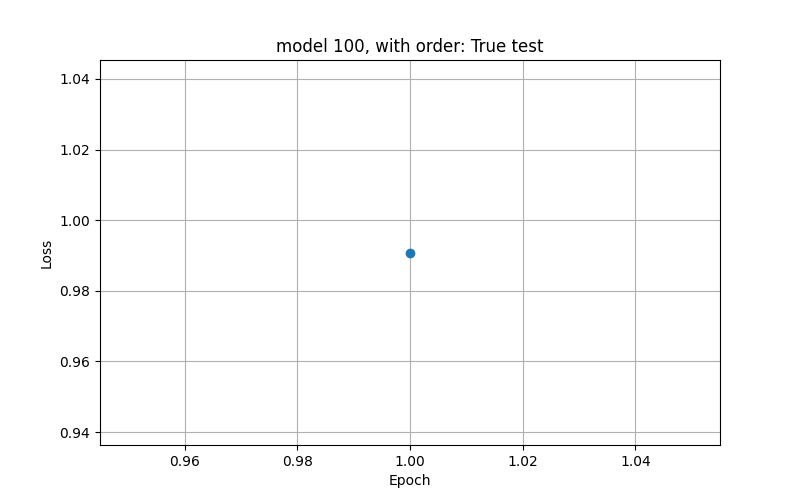
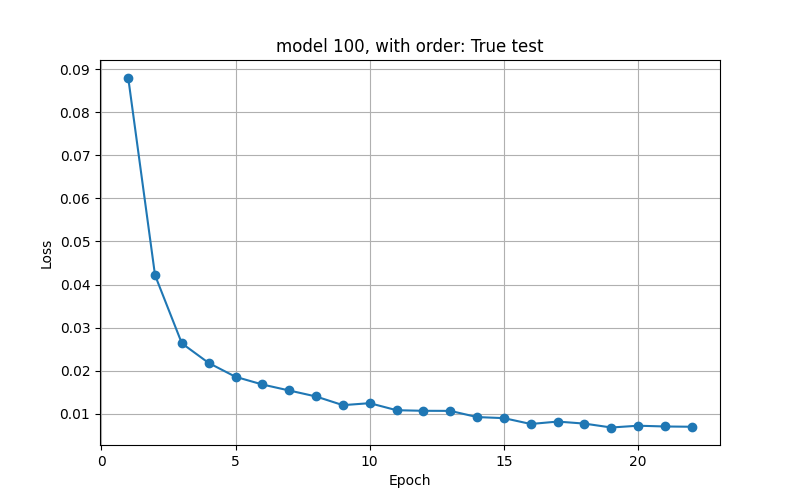
Refactor code structure for improved readability and maintainability

diff --git a/code/inference/guidence.py b/code/inference/guidence.py
@@ -20,10 +20,10 @@ from code.inference.denoise import get_inference_schedule
 
 
 
-def adj_inference_ddpm_cos(proc_times, job_ops_adj, ops_ma_adj, model_path, n_samples, h_when_masked, w_when_masked, n_ops, ops_seq_order, timesteps=1000, guidence_scale=0.5):
+def adj_inference_ddpm_cos(proc_times, job_ops_adj, ops_ma_adj, model_path, n_samples, h_when_masked, w_when_masked, valid_h, valid_w, n_ops, ops_seq_order, timesteps=1000, guidence_scale=0.5):
     
     device = "cuda"
-    print(f"Using model {model_path}, with timesteps {timesteps}, and cos: {cos}")
+    print(f"Using model {model_path}, with timesteps {timesteps}")
 
     model = deepinv.models.DiffUNet(
         in_channels=4, out_channels=1, pretrained=Path(model_path)
@@ -87,10 +87,12 @@ def adj_inference_ddpm_cos(proc_times, job_ops_adj, ops_ma_adj, model_path, n_sa
 
             x0 = scheduler.step(predicted_noise, t, x).pred_original_sample
 
-            guide_loss = guide.amt_errors(x0, n_ops, ops_ma_adj, ops_seq_order, 30) 
+            guide_loss = guide.amt_errors(x0, n_ops, ops_ma_adj, ops_seq_order, valid_h, valid_w, 30)
             guide_loss = guide_loss * guidence_scale
+
             if t % 10 == 0:
                 print(t, "loss:", guide_loss.item())
+
             cond_grad = -torch.autograd.grad(guide_loss, x)[0]
             x = x.detach() + cond_grad
 

diff --git a/code/inference/guide.py b/code/inference/guide.py
@@ -19,7 +19,12 @@ def guiding_function(x): #  is batch of instances
 
 
 
-def amt_errors(x, n_ops, ops_ma_adj, ops_seq_order, max_allowed_total_errors=30):
+def amt_errors(x, n_ops, ops_ma_adj, ops_seq_order, valid_h, valid_w, max_allowed_total_errors=30):
+    # remove padding
+    x = x[:, :, :valid_h, :valid_w]
+    print("hvata")
+    print(x.shape)
+    print("---")
     # make in schedule with order
     inference_assignments = utils.show_order_clear(x, n_ops, ops_ma_adj)
     # get amount of errors
@@ -30,7 +35,7 @@ def amt_errors(x, n_ops, ops_ma_adj, ops_seq_order, max_allowed_total_errors=30)
     if error <= total_errors:
         return float(1)
     # normaliserer totale feil mot max_allowed_total_errors
-    norm_error = (error- 0) / (max_allowed_total_errors - 0)
+    norm_error = (error) / (max_allowed_total_errors)
     # returnerer error
     return norm_error
 

diff --git a/code/inference/main.py b/code/inference/main.py
@@ -124,7 +124,7 @@ def get_inference_result(problem_type, instance_idx, model_type, order: bool):
         # === GUIDENCE
         n_ops = int(torch.count_nonzero(target_assignments))
         ops_seq_order = td["ops_sequence_order"]
-        inference_assignments, elapsed, assignments_over_time = inference.adj_inference_ddpm(proc_times, job_ops_adj, ops_ma_adj, adj_model_path, n_samples, mask_h, mask_w, n_ops, ops_seq_order, timesteps, True)
+        inference_assignments, elapsed, assignments_over_time = guidence.adj_inference_ddpm_cos(proc_times, job_ops_adj, ops_ma_adj, adj_model_path, n_samples, mask_h, mask_w, valid_h, valid_w, n_ops, ops_seq_order, timesteps, True)
 
         # print(done_at_t)
         print(columns_done)
